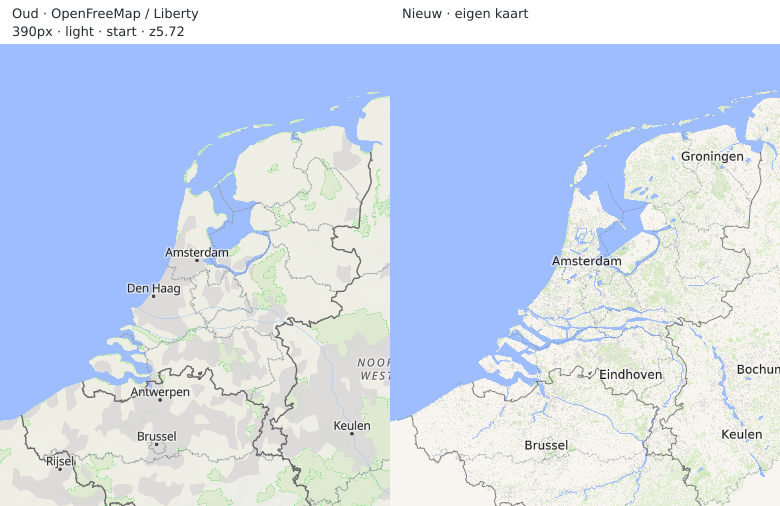
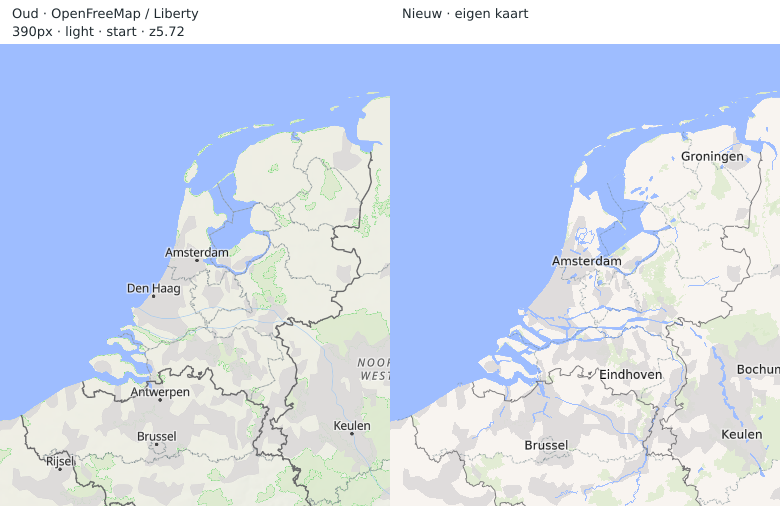
WIP u60: record cover A/B and restore complete protected areas

Changed region(s): [[0.4923, 0.2075, 1.0, 1.0], [0.9846, 0.9486, 1.0, 1.0], [0.7385, 0.3261, 0.7692, 0.3557]]

diff --git a/.dev/tracks/u60-basiskaart-afwerking/LOG.md b/.dev/tracks/u60-basiskaart-afwerking/LOG.md
@@ -222,3 +222,20 @@ Gecomprimeerde bytes; publisher valideert totaal én grootste tegel tegen dezelf
 
 - Bronprofielen z4–9 afgerond; z10/detail-z12 in verwerking. Publisher en nieuwe A/B/perf nog te observeren. Reproduceerbare bronselectie/generalisatie, Natuurlijke Earth-provenance en expliciete U59-bytegate gaan mee in checkpoint; geen claim van geslaagde einddekking.
 - Native landcover vormt de bestemming; de zes lagere profielen schrijven daarin met eigen zoomrange. Lua bewaart class en detail_minzoom voor alle profielbronnen.
+
+## 2026-10-07T21:56:29Z — Native-laagregistratie gecorrigeerd
+
+- Bouw 5: exit 1 bij tilemaker-config, omdat de write_to-bestemming vóór haar lagere profielen geregistreerd moet worden. Alle zeven GIS-bronnen zijn afgerond en hun cachehash is geldig. Bestemming landcover nu eerst in config.json; bouw 6 gestart met ongewijzigde broncache (tmp/basemap/u60/build-revision-6.txt).
+
+## 2026-10-07T21:58:16Z — Native profiel-kandidaat in scratch
+
+- Bouw 6 native + PMTiles verify geslaagd, publisher exit 1: 32.103.846 B tegen absolute productiecap 25 MB. Broncache hergebruikt; tilemaker-bestemming moet eerder in JSON staan dan write_to-profielen, nu gecorrigeerd.
+- Scratch-publicatie revision-profile gestart om alle tegels/schema te valideren en de beeldgate eerst op 390 licht te meten; nog geen A/B-receipt. Koude kaartbytes blijven de expliciete U59 +25  0ate.
+
+## 2026-10-07T22:03:33Z — WIP-checkpoint op queue-instructie
+
+- Kandidatenmetingen blijven afgekeurd: profiel390 licht exit 1. Groen Utrecht z9 19,14→19,14 %, kust 2,02→2,01 %, IJsselmeer 3,35→3,76 %, z7 13,86→13,94 %, z10 18,46→18,41 %, z12 7,13→7,97 %; start 7,90→6,02 % mist dekking. Grijs start15,71→15,39 % goed; kust2,58→3,54 %, z7 9,16→11,20 %, z10 23,50→27,16 % nog buiten gate.
+- Geometrisch verschil met Liberty benoemt ontbrekende Naturpark Hohes Venn-Eifel, Vulkaneifel en Rhein-Ahr-Eifel. Rheinland-Pfalz-extract wordt toegevoegd om volledige beschermde gebieden te herstellen. Geen willekeurige vergroting van groen.
+- Urban wordt bij bronselectie gesplitst: residential en overige bebouwing; overige verschijnt grof vanaf z10. Vervolg: Liberty-min-area/min-hole-area na urban-union en sterkere z10-simplificatie. Z12-green-detail blijft behouden.
+- Herstel bij vorig kopje: de printf-uitvoer vervormde de tekst; bedoelde gate blijft koude kaartbytes U59 +25 %. Profiel-kandidaat z5最大tegel 36.331 B, overige archiefgroei zit grotendeels in hogere zooms; nog geen mobiel rig-receipt.
+- Volledige WIP nu gecommit/gepusht op expliciete queue-instructie. Eindparen/rig/docs/ready nog open; werk gaat door.
